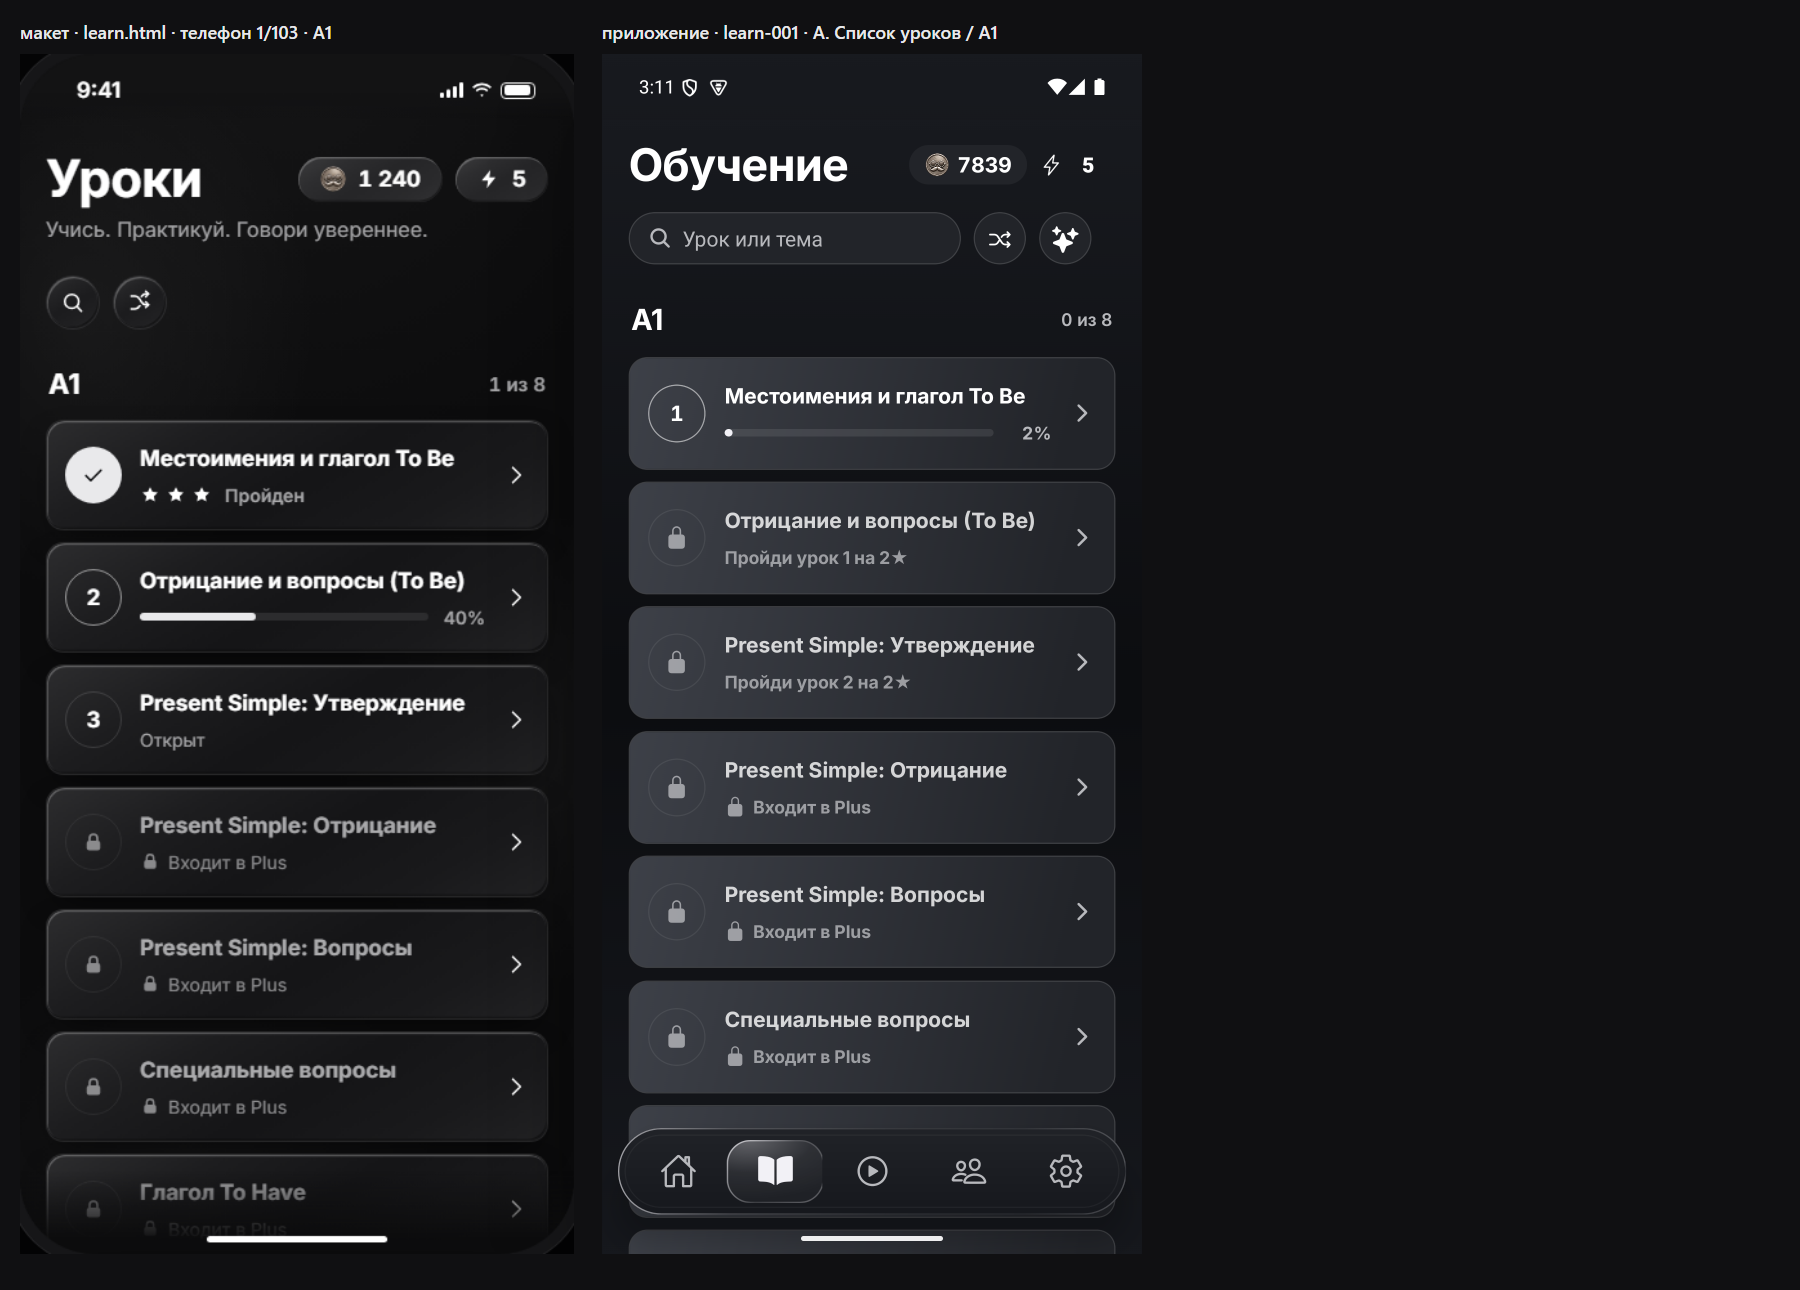
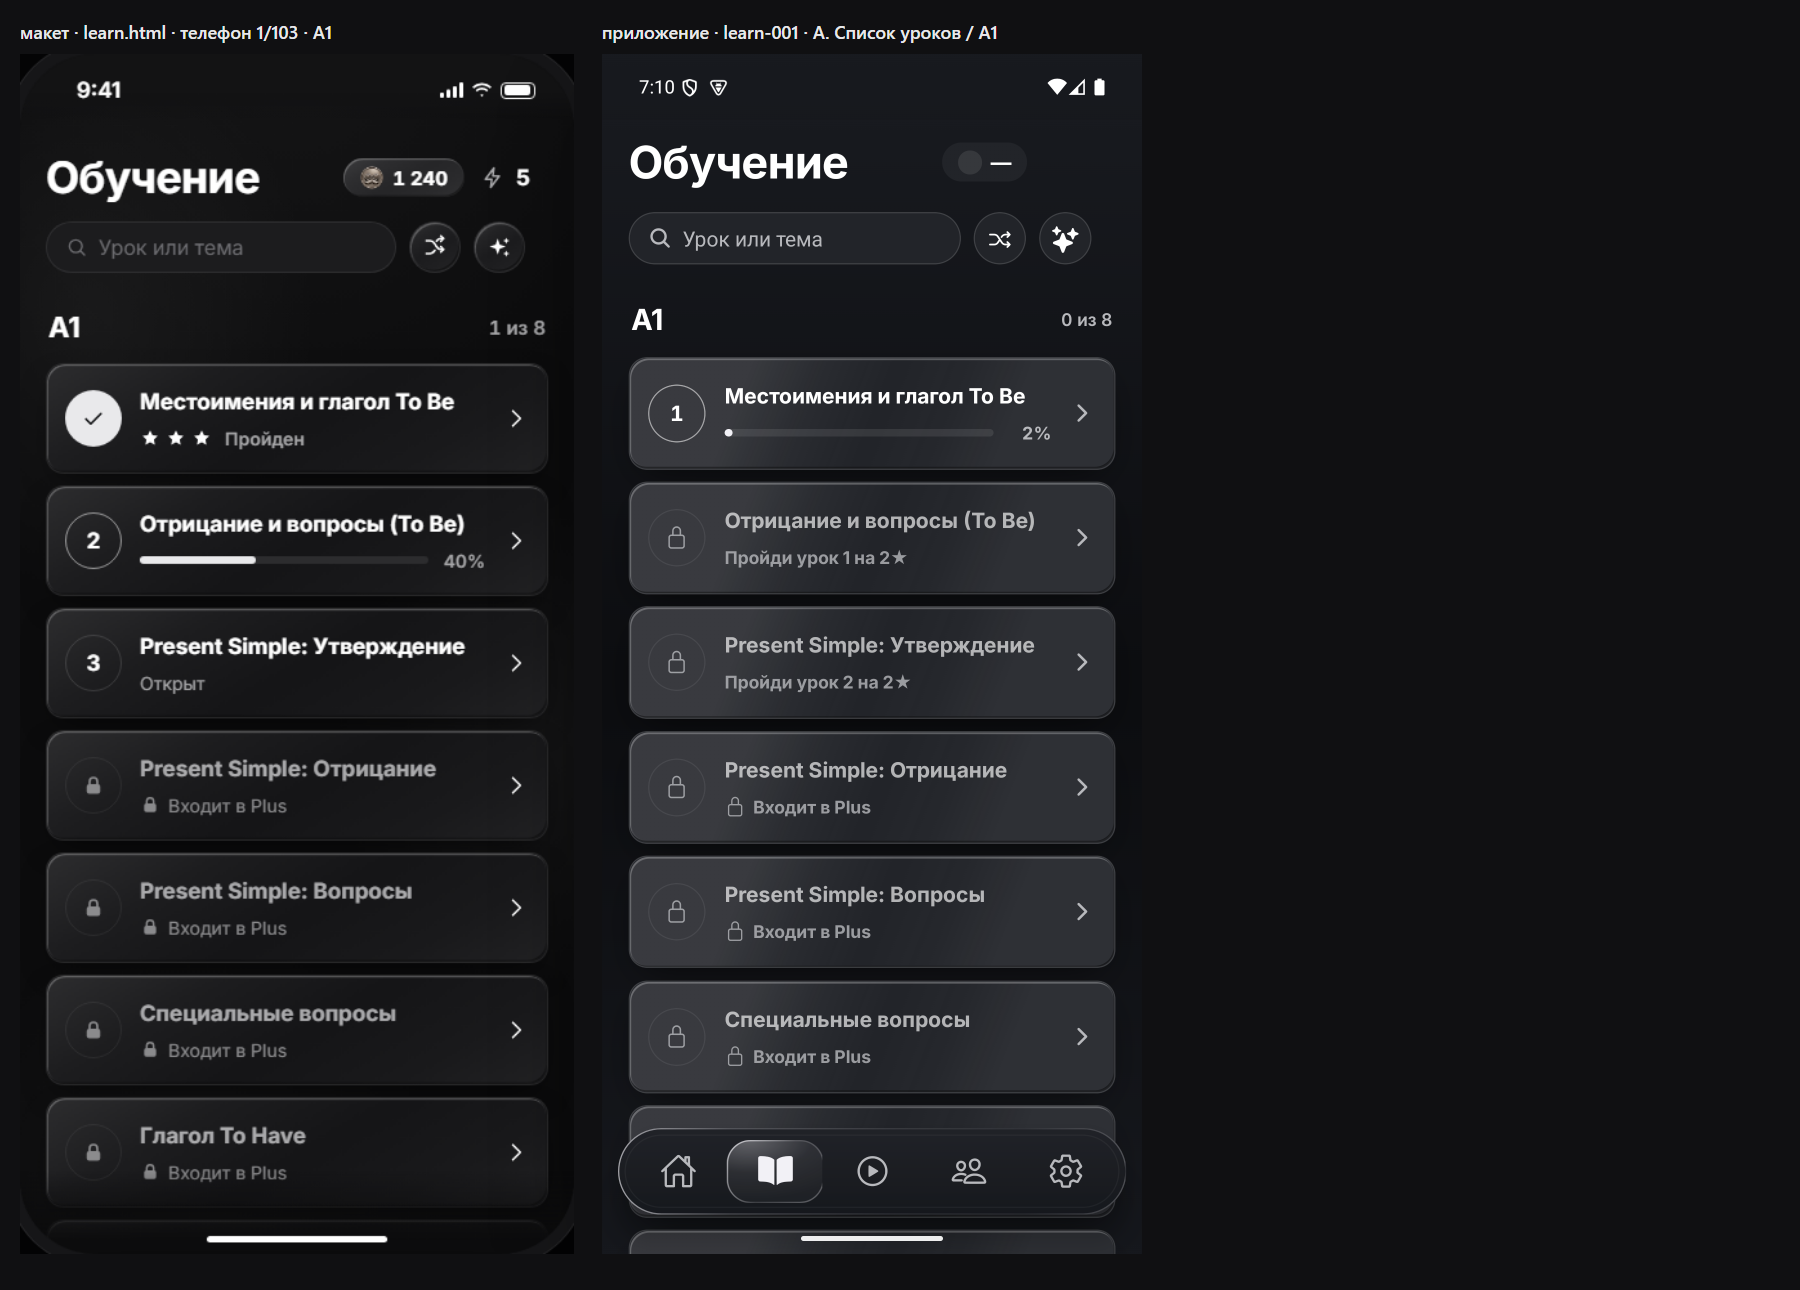
parity(learn-001): карточки уроков — стекло kit.css и тень; закрытые приглушены

diff --git a/components/lessons/LessonsListGlassCard.tsx b/components/lessons/LessonsListGlassCard.tsx
@@ -11,7 +11,7 @@ import Animated, {
   withTiming,
 } from 'react-native-reanimated';
 import PressableHybrid from '../PressableHybrid';
-import { LinearGradient } from '../SafeLinearGradient';
+import { KitGlassLayer, KIT_GLASS_DROP } from '../v2/KitLiquidGlass';
 import type { Lang } from '../../constants/i18n';
 import {
   lessonsGlassAlpha,
@@ -236,25 +236,23 @@ export const LessonsListGlassCard = React.memo(function LessonsListGlassCard({
       withHaptic={false}
       variant="card"
       pressScaleTo={0.975}
-      style={{ marginHorizontal: 20, marginTop: 9 }}
+      // зачем (kit.css --lg-drop): у карточек макета мягкая тень снизу.
+      style={{ marginHorizontal: 20, marginTop: 9, borderRadius: 14, boxShadow: KIT_GLASS_DROP }}
       contentStyle={[
         lessonsGlassCardStyle(glass, 14),
         { minHeight: 86, flexDirection: 'row', alignItems: 'center', gap: 14, padding: 14 },
       ]}
     >
-      <LinearGradient
-        pointerEvents="none"
-        colors={[glass.selected, 'transparent']}
-        start={{ x: 0, y: 0 }}
-        end={{ x: 0.9, y: 1 }}
-        style={{ position: 'absolute', top: 0, right: 0, bottom: 0, left: 0 }}
-      />
+      {/* зачем (сверка 04.10, learn-001): карточка урока — стекло kit.css (.card::after: блик 150°, светлая
+          кромка сверху-слева, тёмная снизу), а не плоская заливка с подкраской темы. */}
+      <KitGlassLayer radius={14} />
       {fx?.kind === 'unlock' ? <UnlockGlow key={`glow-${fx.key}`} glass={glass} onDone={clearFx} /> : null}
       <View style={{ opacity: locked ? 0.8 : 1 }}>
         {fx ? <CirclePop key={`pop-${fx.key}`}>{circle}</CirclePop> : circle}
       </View>
       <View style={{ flex: 1, minWidth: 0, opacity: locked ? 0.8 : 1 }}>
-        <Text style={{ color: glass.text, fontSize: 16, lineHeight: 21, fontWeight: '700' }}>{name}</Text>
+        {/* зачем (learn.html `.lc.locked .tt`): у закрытого урока название приглушённое (#D0D0D2 ≈ текст темы с прозрачностью .82, + .8 у блока). */}
+        <Text style={{ color: locked ? lessonsGlassAlpha(glass.text, 0.82) : glass.text, fontSize: 16, lineHeight: 21, fontWeight: '700' }}>{name}</Text>
         <View style={{ flexDirection: 'row', alignItems: 'center', gap: 10, marginTop: 8, minHeight: 18 }}>
           {fx ? <StatusFade key={`st-${fx.key}`}>{status}</StatusFade> : status}
         </View>

diff --git a/docs/phraseman-2.0/evidence/parity/SVERKA_LOG.md b/docs/phraseman-2.0/evidence/parity/SVERKA_LOG.md
@@ -128,3 +128,17 @@ practice-002 «верный ответ» не снят: таймер блица 
 Файл: components/FeatureIntroModal.tsx
 - Пара «тёмная + Пастель» для координатора/владельца: evidence/parity/intro_cards_hub_dark_vs_pastel.png. В «Пастели» сцена светлая (своя), кнопка — тёмная заливка; расхождения те же (Позже→Закрыть, нет кромки шторки, кнопка без глянца). 🟡 в «Пастели» сам экран «Карточки» под шторкой остаётся тёмным (стопка и плитки) — проверить, должен ли хаб светлеть.
 - ⚠ Пока снимала, кто-то менял оформление на эмуляторе (светлое → тёмное, ползунок насыщенности 0 → ~75 %). Если это другая сессия — эмулятор занят двумя одновременно.
+
+### learn-001 · Обучение A1 — по НОВОМУ learn.html (cc99dc0ca), тёмная — НЕ СОВПАДАЕТ (геометрия совпала)
+Совпадает: заголовок, строка поиска + «перемешать» + «ИИ», монеты/энергия справа, «A1 · N из 8», раскладка карточек.
+Расхождения (не данные):
+1. Карточки уроков: макет — почти чёрные, стекло (светлая кромка сверху, тень); приложение — заметно светлее (серо-синие), плоские.
+2. Закрытые уроки: макет — весь текст приглушён (название серое); приложение — название ярко-белое.
+3. Замок в кружке: в приложении контурный значок, в макете залитый.
+4. Монета в пилюле: в приложении серая/бесцветная, в макете бронзовая монета.
+5. Пилюля монет и круглые кнопки: в макете стекло с бликом, в приложении плоские.
+6. Значок «ИИ» (✦): в приложении крупнее и плотнее.
+Данные (не расхождение): урок 1 на 2 % вместо «Пройден», 7842 монеты, 4 энергии.
+Файлы: components/lessons/LessonsListGlassCard.tsx, LessonsListGlassKit.tsx
+- ИСПРАВЛЕНО (сверка, LessonsListGlassCard.tsx): карточки уроков — стекло kit.css (KitGlassLayer: блик, светлая кромка сверху, тёмная снизу) + тень --lg-drop; закрытый урок — название приглушено (текст темы .82). Склейка learn-001 переснята после reload.
+- ОСТАЛОСЬ: заливка карточки светлее макета (#151517) — это токен темы opaqueCard «Затмения» (сессия 4 «Темы»); 🔴 после холодного старта пилюля монет показывает «—» (баланс не из кэша — нарушение «мгновенного открытия»).

diff --git a/docs/work/tasks/parity-kit-liquid-glass.md b/docs/work/tasks/parity-kit-liquid-glass.md
@@ -45,3 +45,6 @@ Governance-ID: TG-054D34C312FC
 Governance-ID: TG-2F0A2C2CE0D1
 Governance-ID: TG-D731AF26BED5
 (сторож tests/flashcards_blitz_liquid_glass_source_contract.test.mjs обновлён под KitGlassLayer — следствие 9b848f4b8)
+
+Governance-ID: TG-B42BE230DCA8
+(стекло карточек «Обучения» — components/lessons/LessonsListGlassCard.tsx, сторож lessons_list_liquid_glass_source_contract PASS)
